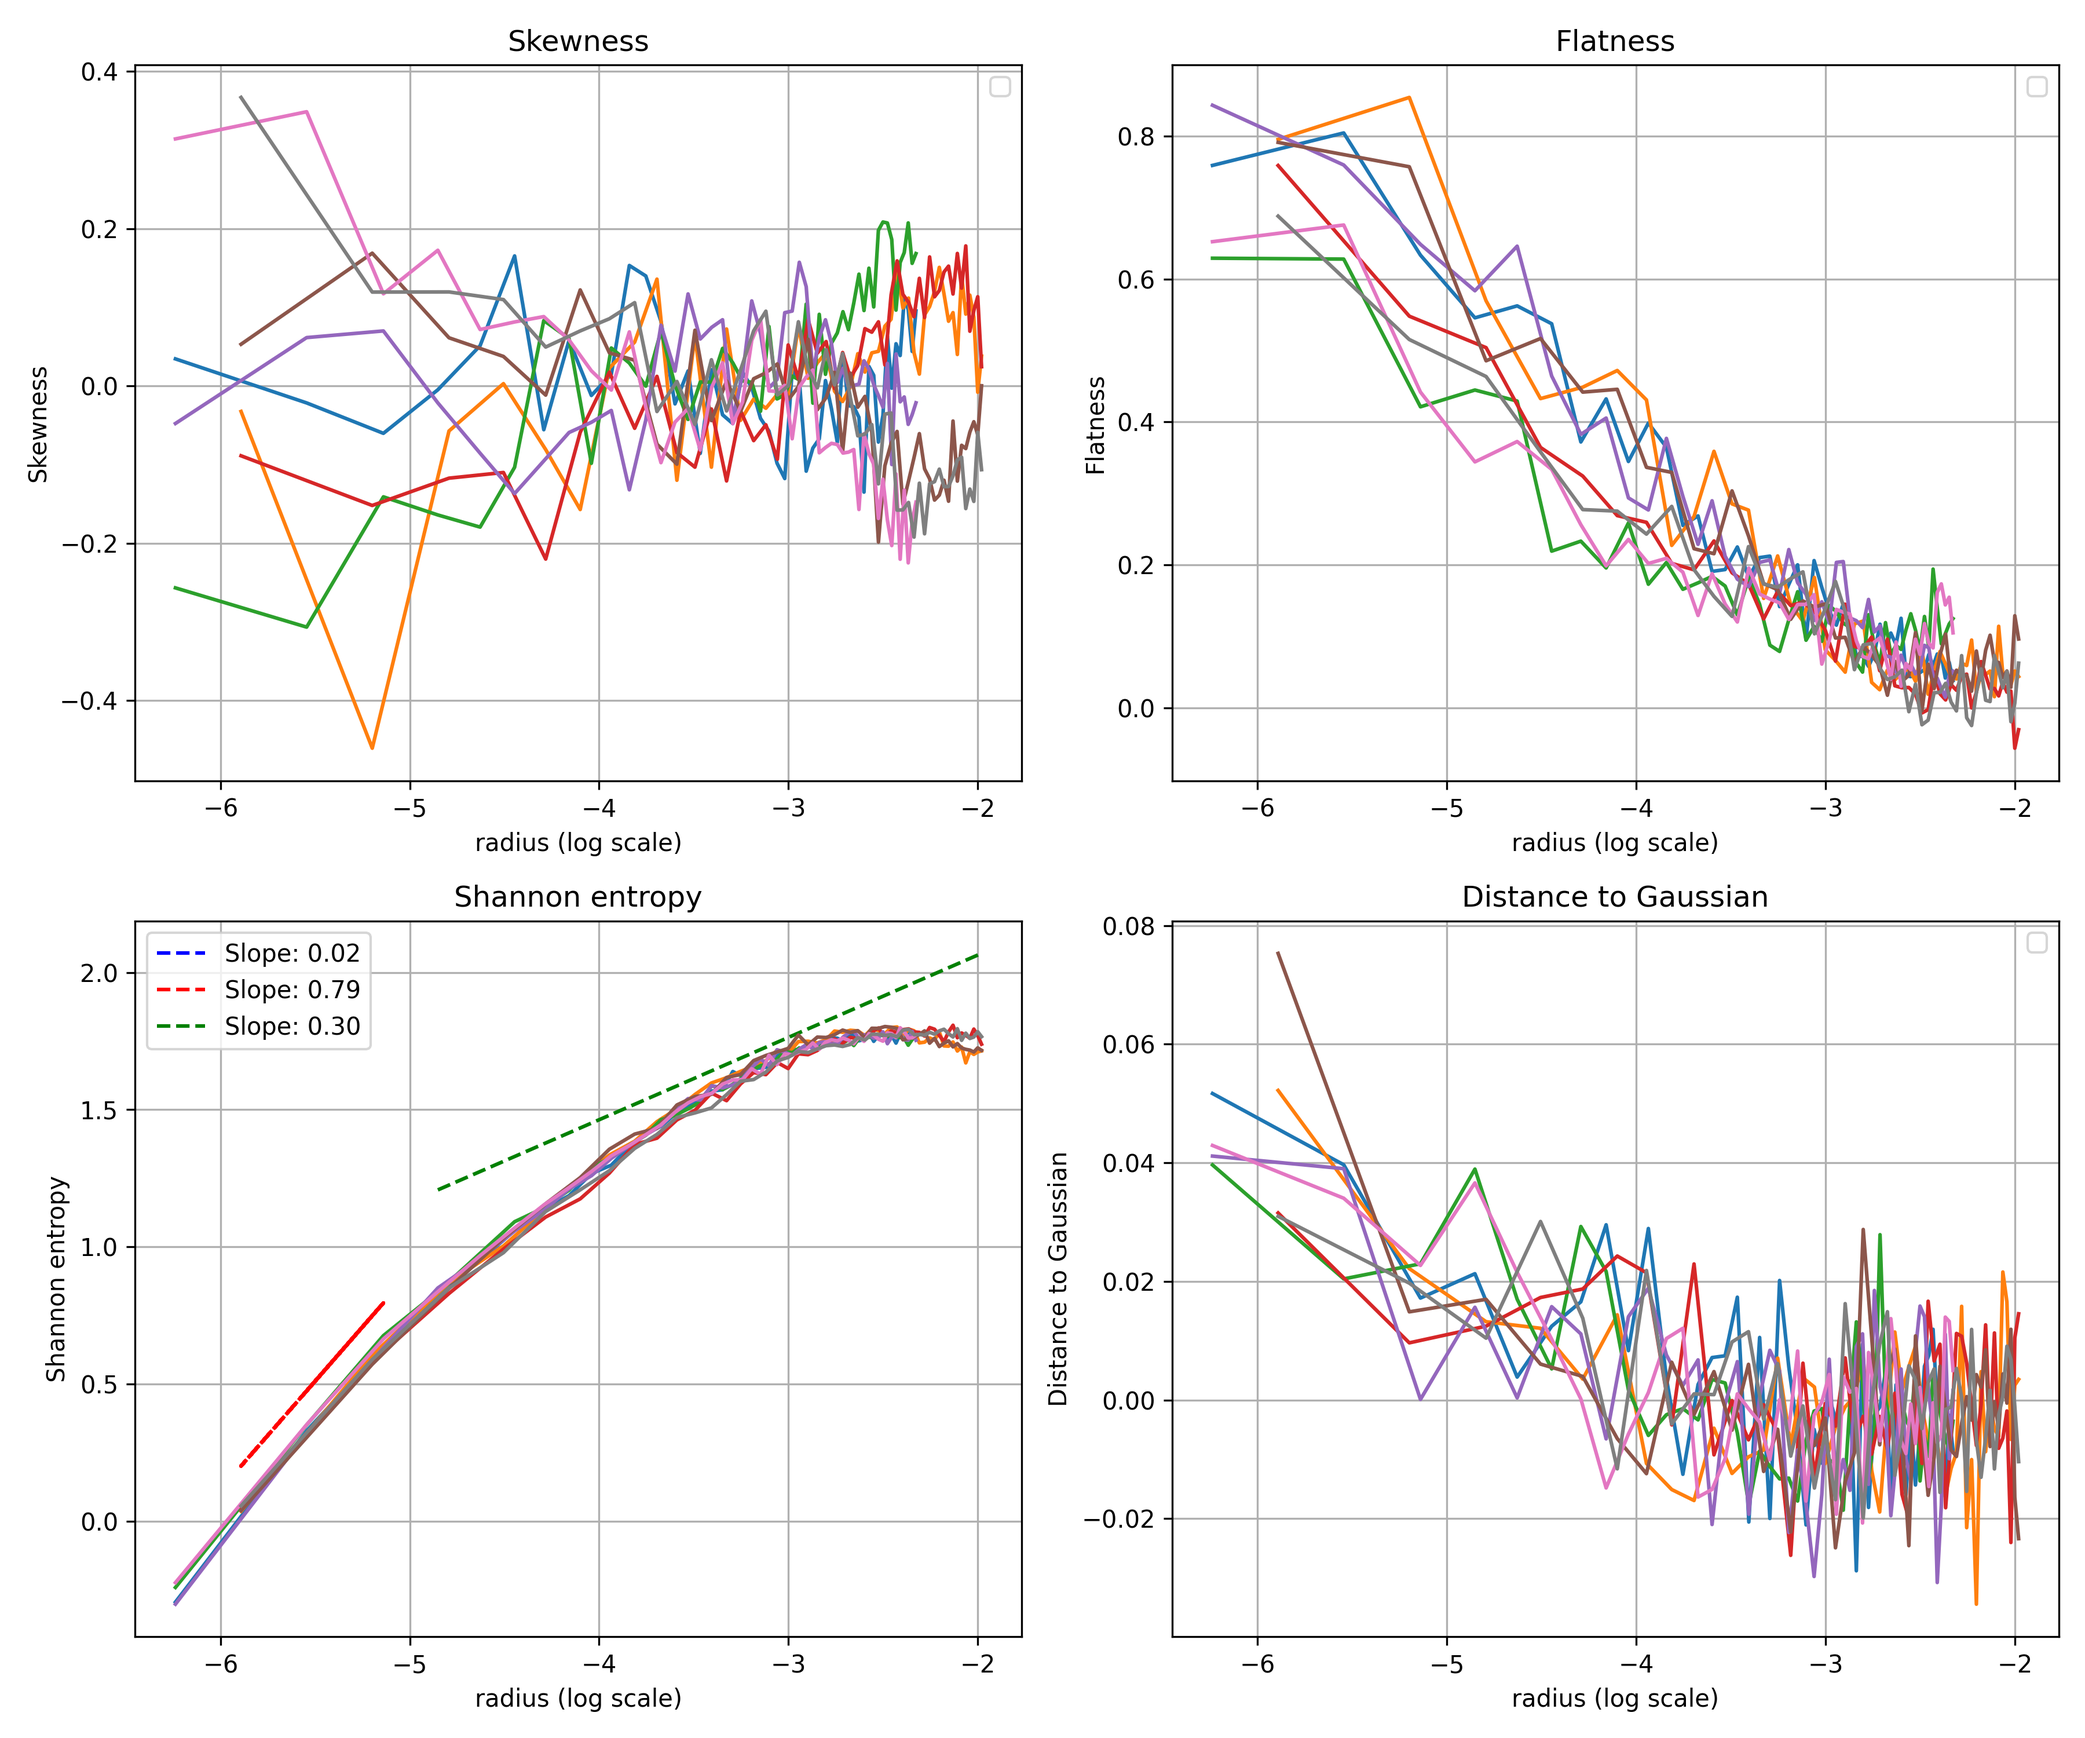
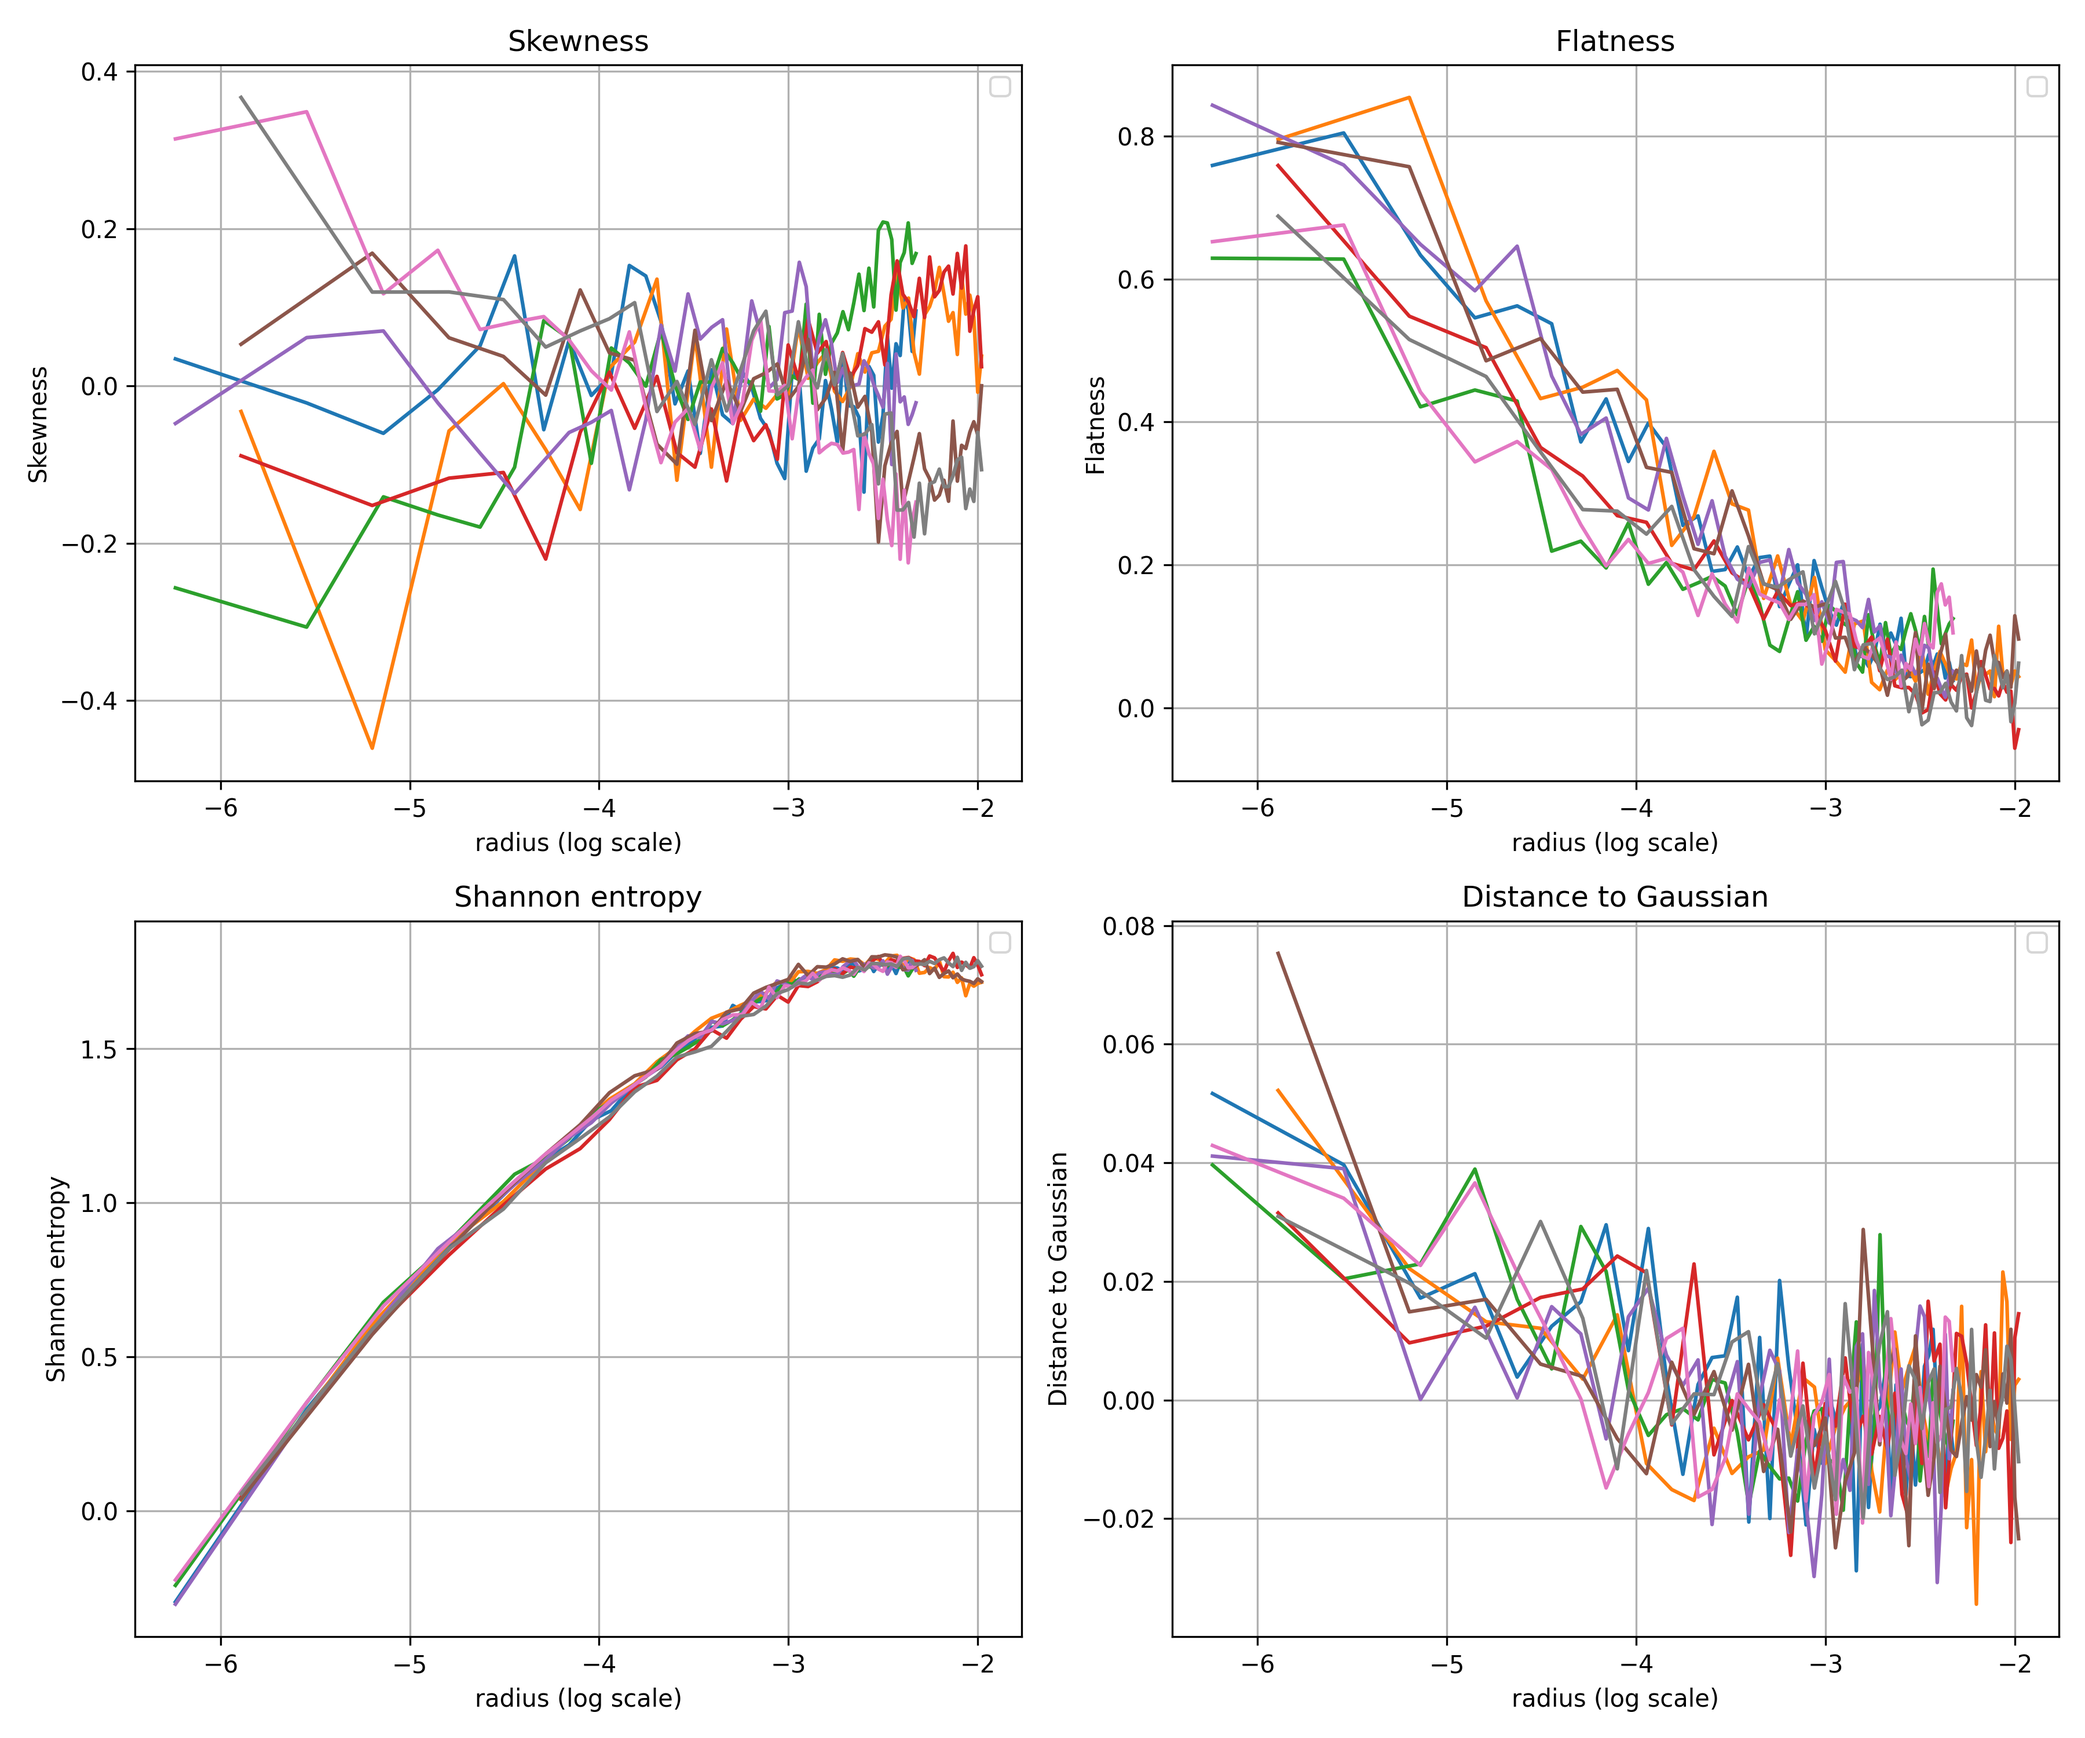
added images of one timestep

diff --git a/Analyse_Spatial.py b/Analyse_Spatial.py
@@ -27,7 +27,7 @@ import infomeasure as im # to compute information measures
 #%%
 from dirs import dir, save_dir
 
-sim_n = '03'
+sim_n = '04'
 path= dir + 'sim_' + sim_n + '/' + 'vars.nc'
 save_dir = save_dir + 'sim_' + sim_n + '/'
 # Ensure output directory exists to avoid "No such file or directory" when saving
@@ -50,6 +50,7 @@ WW=ww[timei,:,:]
 print("WW shape :", WW.shape)
 
 plt.imshow(WW, label='Vorticity field snapshot', cmap='jet')
+plt.axis('off')
 
 # Standard deviation estimation
 sigma=np.std(WW)
@@ -61,7 +62,7 @@ N=len(WW)
 
 # Parameters definition
 Nanalyse=2**10 # number of increments to analyse (512 / 1024 is a good compromise between statistical convergence and computation time)
-scaleth= 20 # maximum scale to analyse
+scaleth= 50 # maximum scale to analyse
 Nreal = 2 # number of realizations to average the information measures over
 
 scale_dir = f'scales_1-{scaleth}/'
@@ -194,13 +195,14 @@ for k in range(n_angles):
     dist_gauss_angle.append(dist_gauss[rr,cc])
 
 # Preparing the data for plotting
-
+print(flatness_angle)
 radius_angle = [np.log(elt) for elt in radius_angle]
 flatness_angle = [np.log((elt+3)/3) for elt in flatness_angle]
 
 # %%
 # Visualization of the information measures
 save_graphs = True
+plt.axis('on')
 
 fig1 = plt.figure()
 plt.imshow(S2, extent=[-scaleth*ls, scaleth*ls, -scaleth*ls, scaleth*ls])
@@ -318,7 +320,6 @@ plt.tight_layout()
 plt.show()
 
 if save_graphs:
-    # Saving the information measures
     fig1.savefig(save_dir + scale_dir + f'Vorticity_S2_Image_Nanalyse1024_scales1-{scaleth}.png', dpi=300)
     fig2.savefig(save_dir + scale_dir + f'Vorticity_Results_Nanalyse1024_scales1-{scaleth}.png', dpi=300)
     fig3.savefig(save_dir + scale_dir + f'Vorticity_Histograms_Nanalyse1024_scales1-{scaleth}.png', dpi=300)
